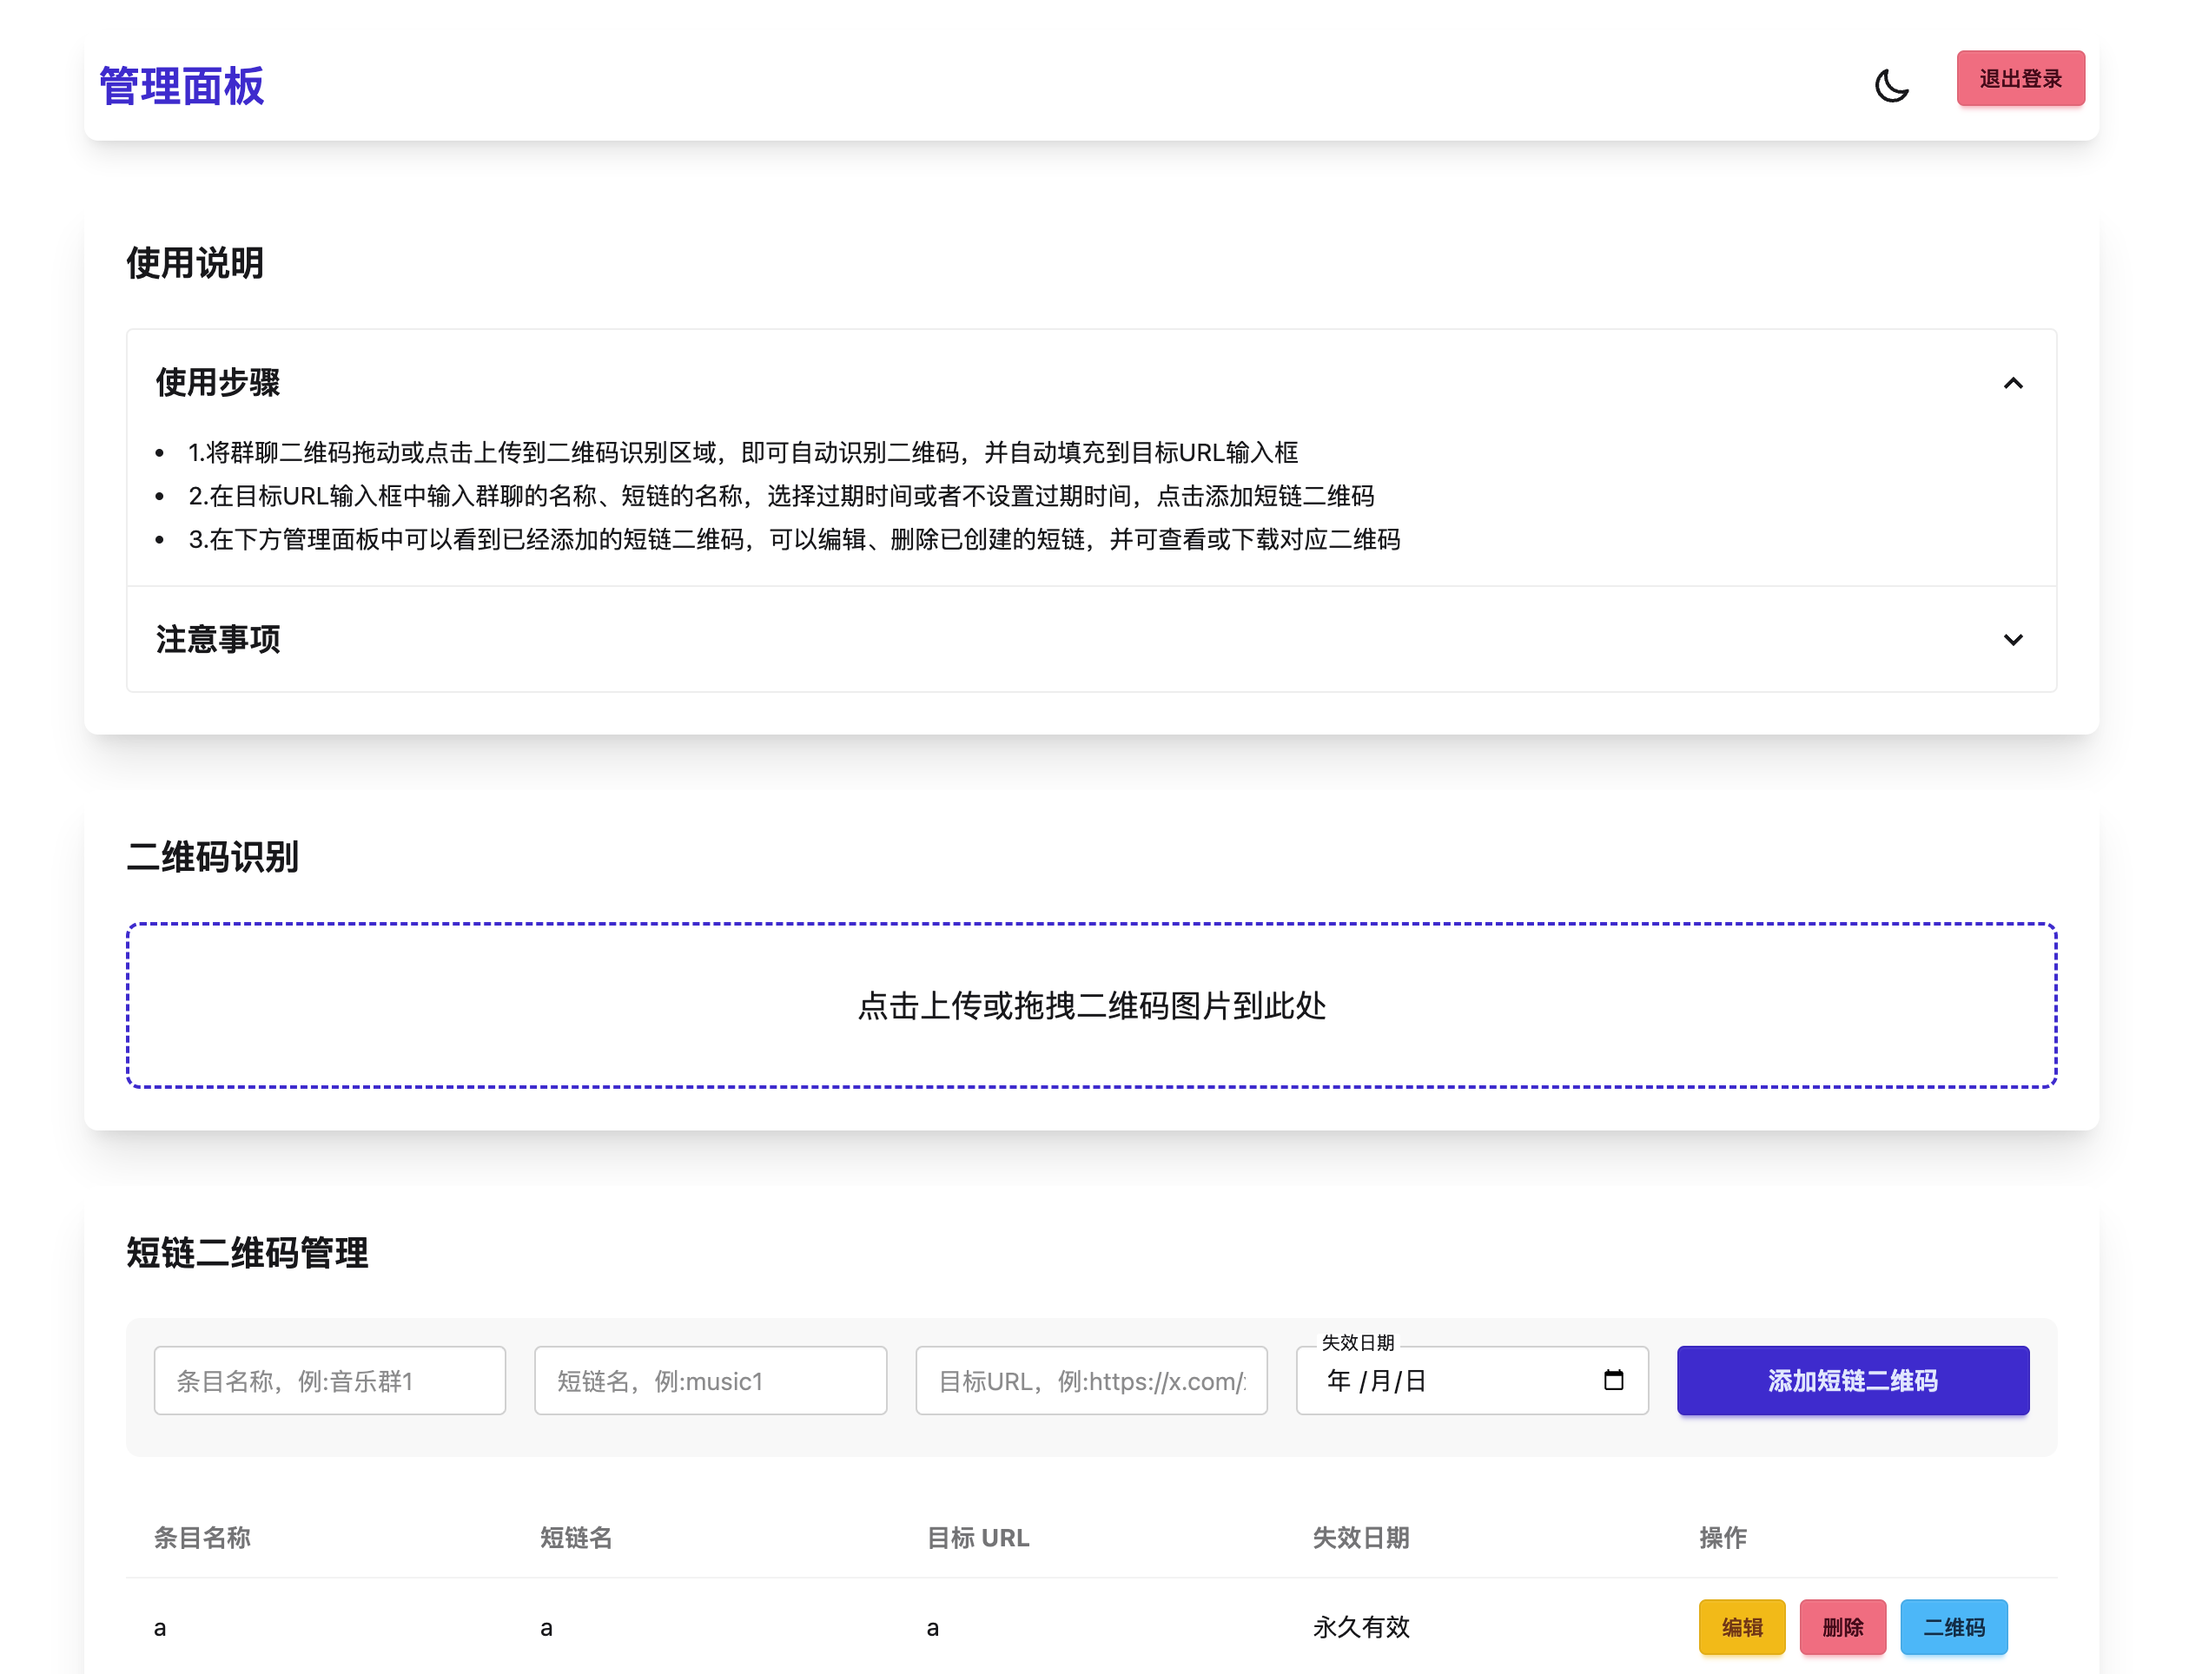
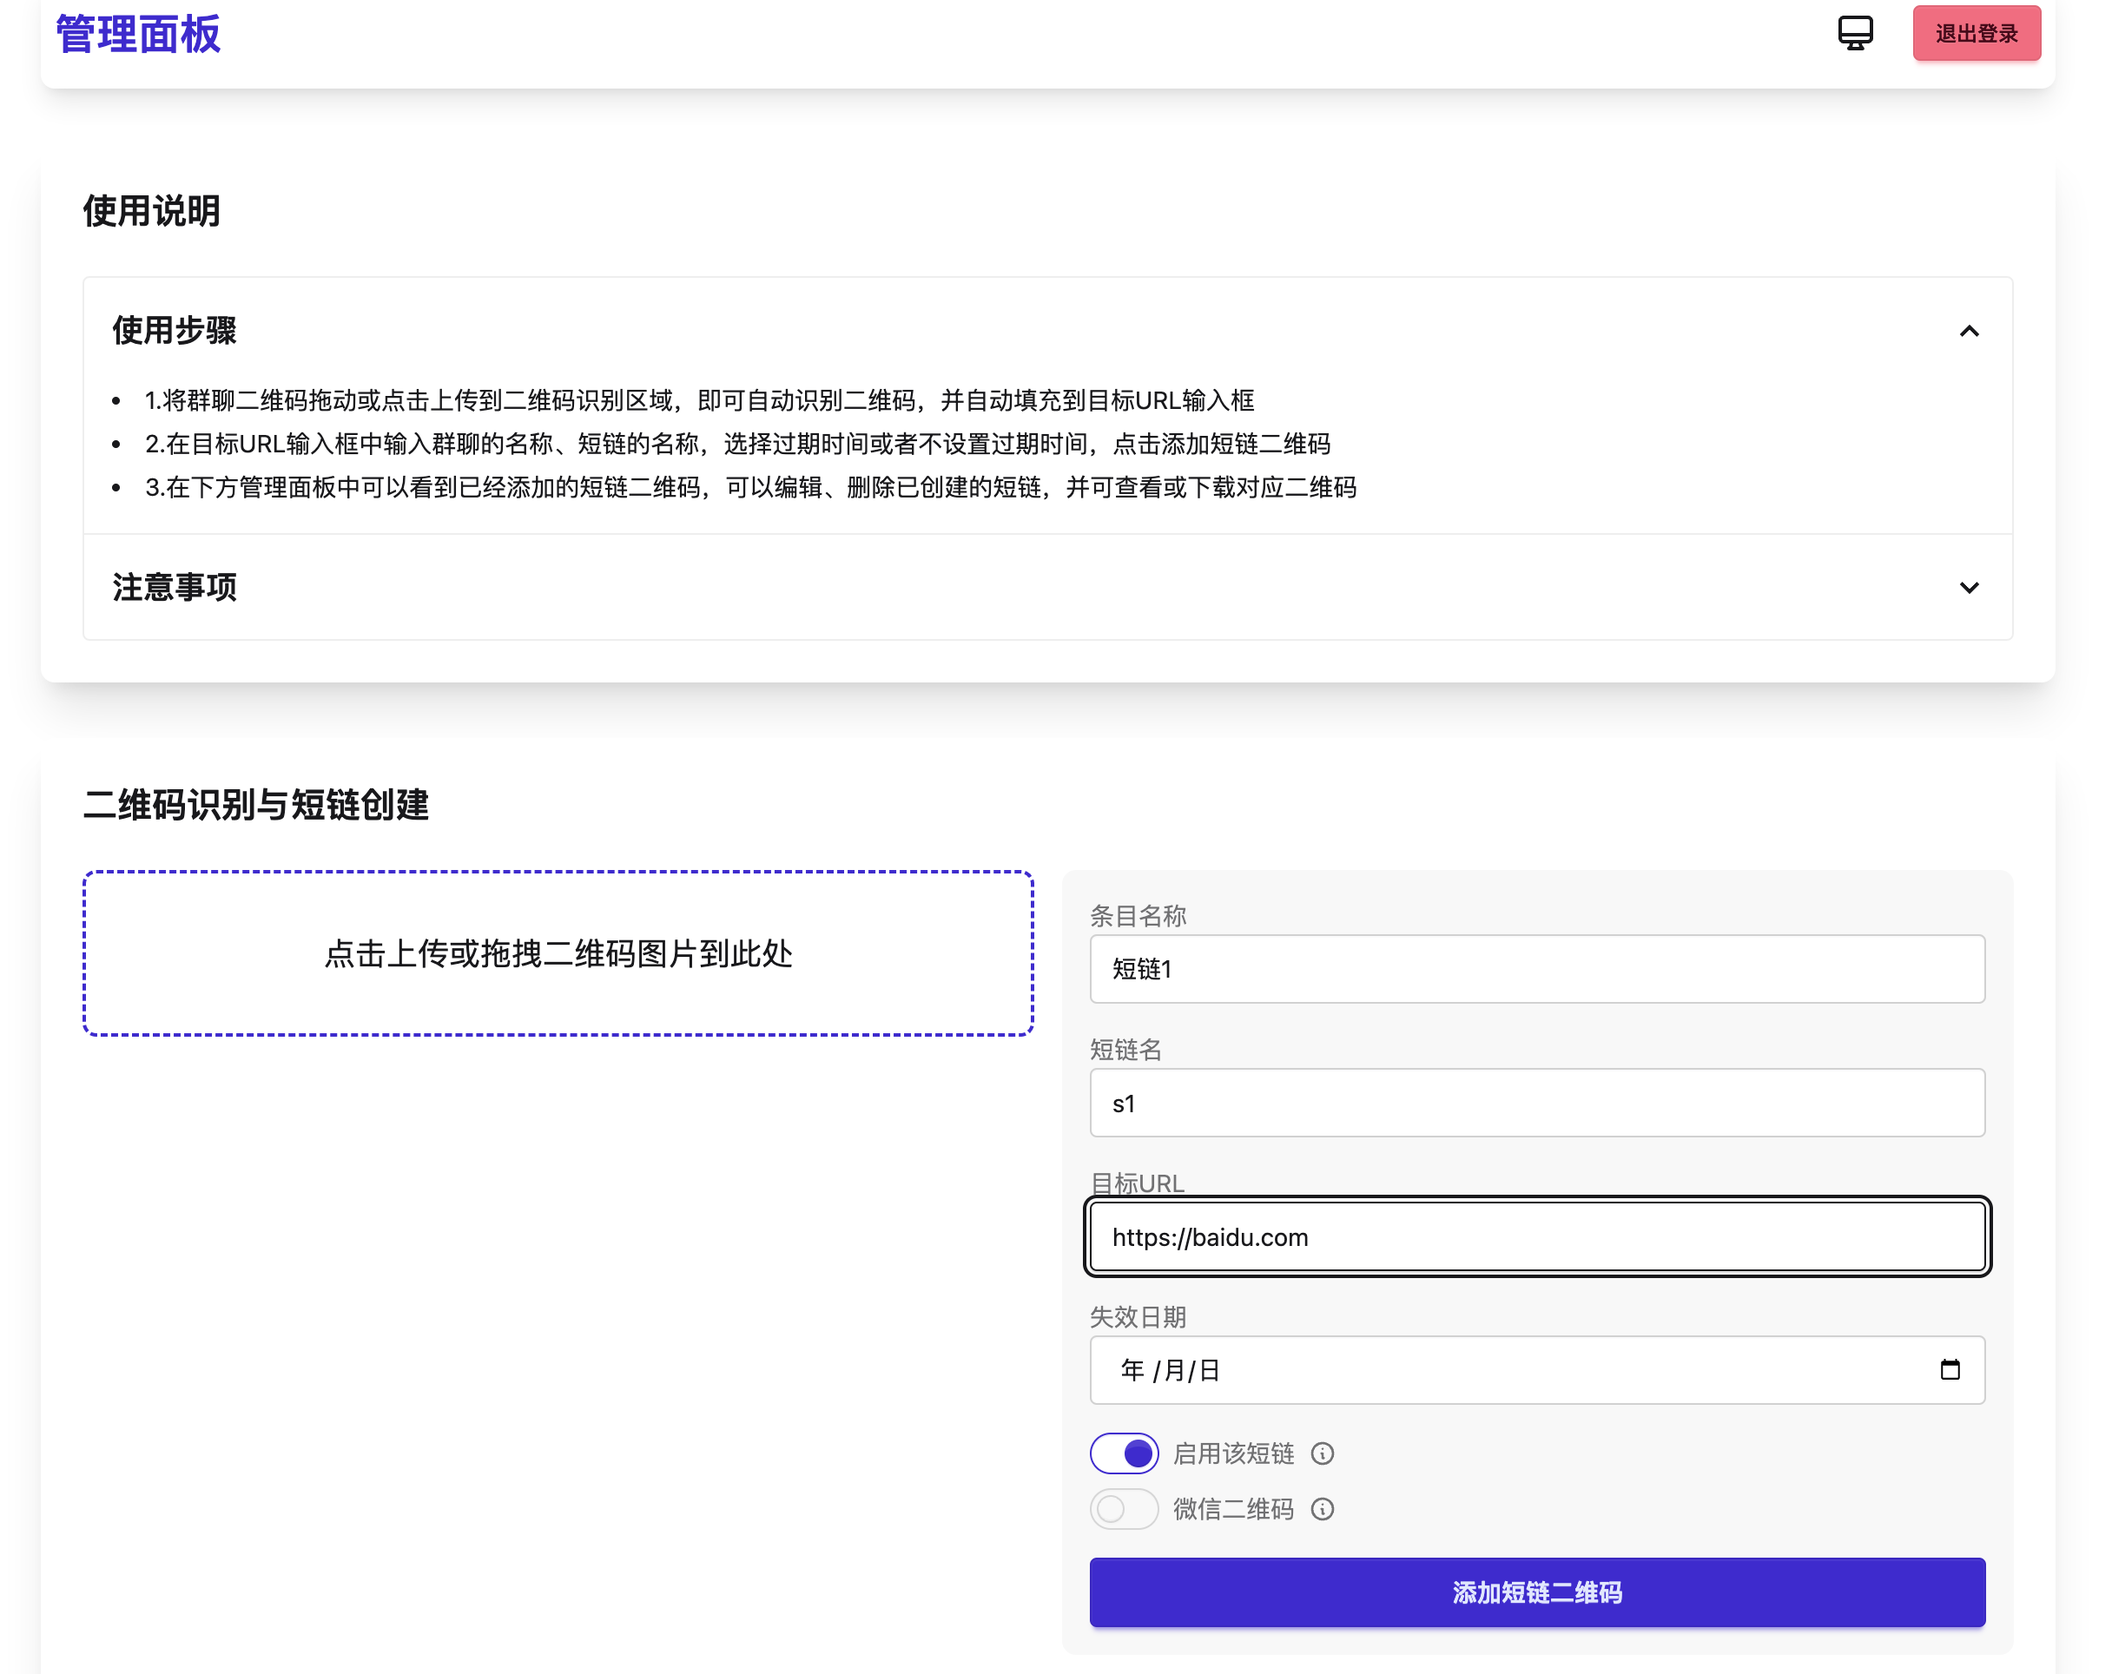
预览图

diff --git a/README.md b/README.md
@@ -17,10 +17,19 @@
 
 - 登录
   ![preview-login](./images/preview-login.png)
-- 管理后台
+- 管理后台1：添加普通短链
   ![preview-admin](./images/preview-admin.png)
+- 管理后台2：添加微信二维码
+  ![preview-admin2](./images/preview-admin2.png)
+- 管理后台3
+  ![preview-admin3](./images/preview-admin3.png)
 - 生成二维码
   ![preview-qr](./images/preview-qr.png)
+- 管理后台4：编辑
+  ![preview-admin4](./images/preview-admin4.png)
+- 微信识别
+  ![preview-wechat](./images/preview-wechat.jpg)
+- 短链跳转就不展示了，是直接跳转的
 
 ## 使用步骤
 
